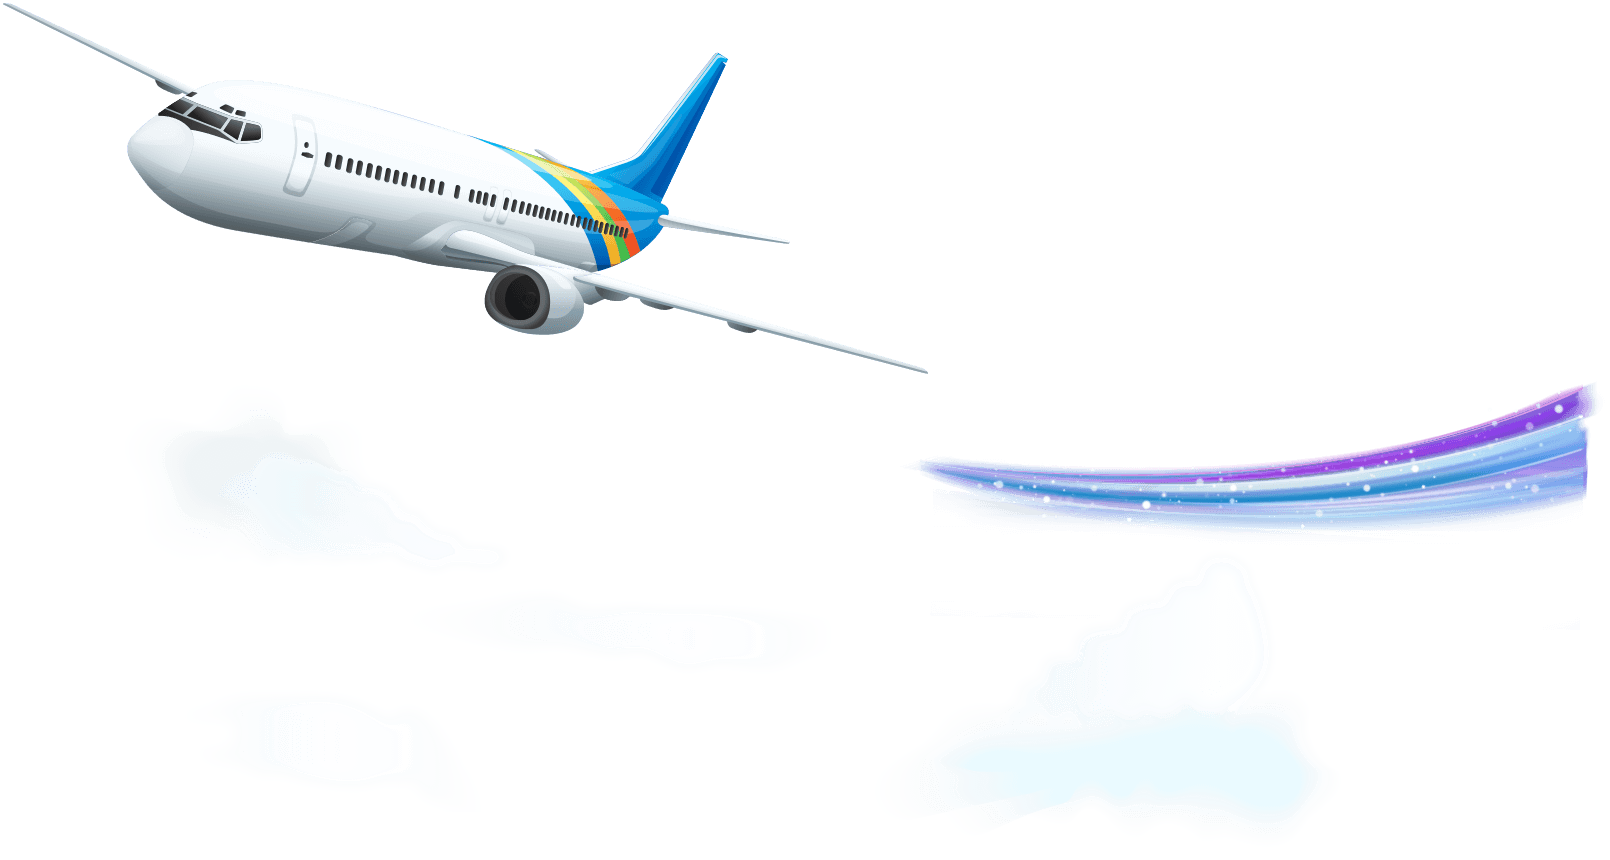
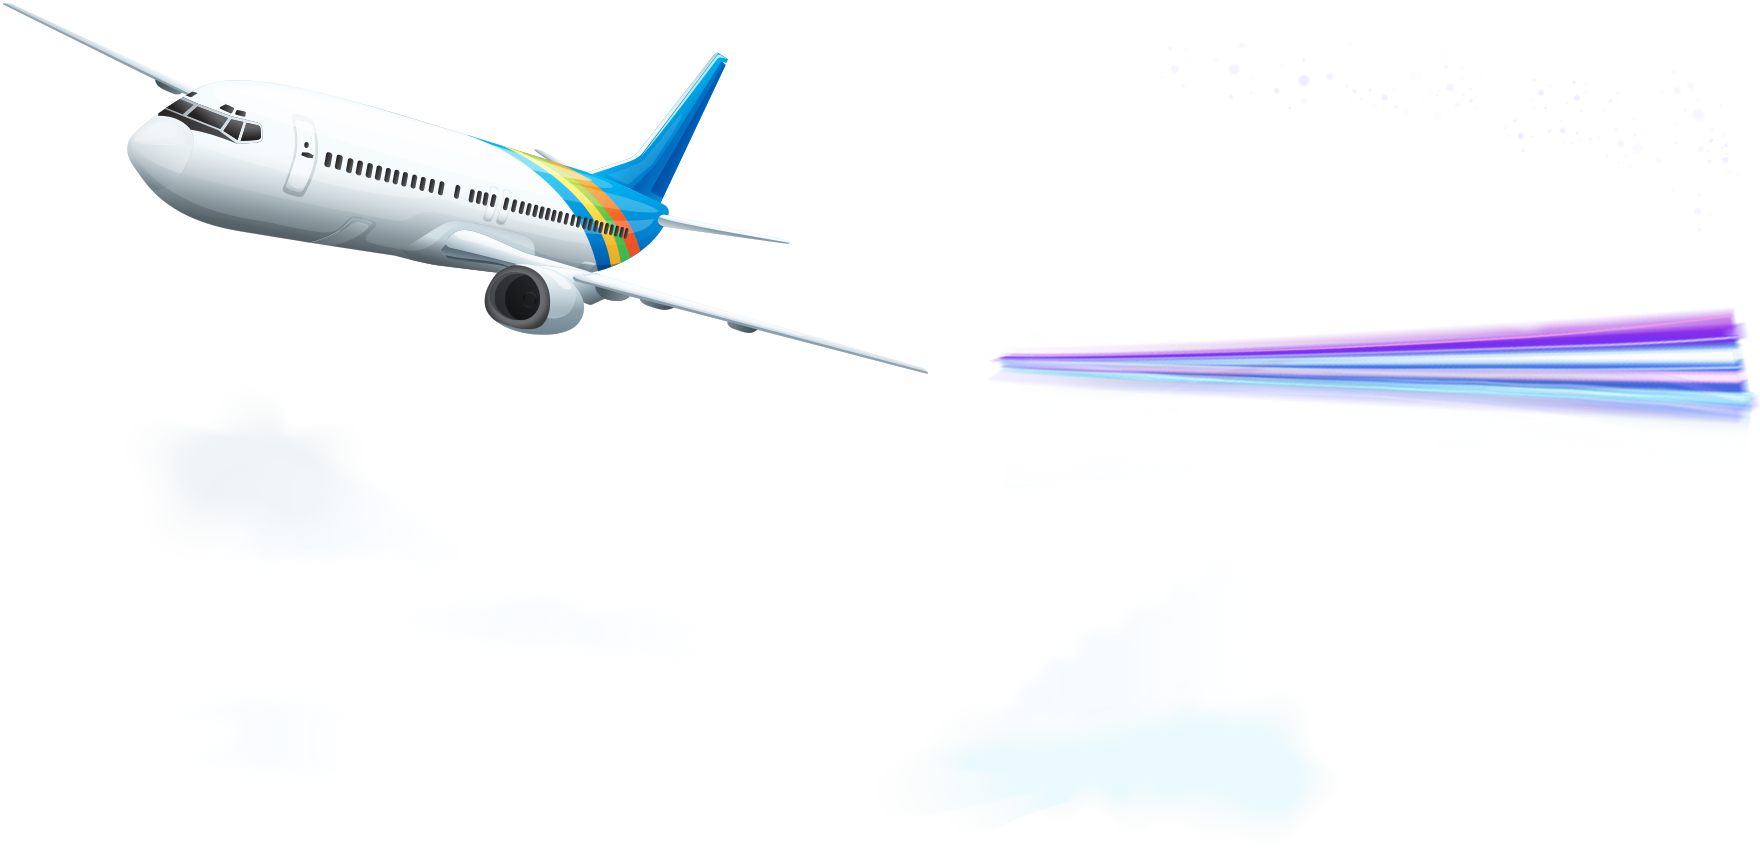
更新飞机

diff --git a/src/views/newk3/gifts/airplane.vue b/src/views/newk3/gifts/airplane.vue
@@ -26,18 +26,16 @@
 	}
 }
 .airplane{
-	width: 10.6rem;
-  height: 4.3rem;
+  width: 9.6rem;
+  height: 3.9rem;
   background-size: 18rem !important;
   background-repeat: no-repeat !important;
 }
 .light{
-  width: 34rem;
-  height: 8rem;
-  background-position: 35rem 24rem !important;
-  left: 7rem;
-  top: -1.9rem;
-  background-size: 80rem !important;
+  width: 17rem;
+  height: 5rem;
+  background-position: 17rem 13rem !important;
+  background-size: 40rem !important;
 }
 .moving.gift{
 	.airplane{
@@ -45,29 +43,33 @@
 	}
 	.light{
 		animation: light 10s linear;
+    transform-origin: 100% 50%;
+    transform: scale(0) translateY(9.1rem);
+    top:6.5rem;
+    left:2rem;
 	}
 }
 @keyframes light{
 	0%{
-		transform: translate(17rem,8rem);
+    transform: scale(0) rotate(16deg);
 		opacity: 1;
 	}
 	25%{
 		opacity: 1;
 	}
 	50%{
-		transform: translate(-10rem,-1rem);
+    transform: scale(1.3) rotate(16deg);
 		opacity: 0;
 	}
 	50.001%{
-		transform: translate(-42rem,-21rem) scaleX(-1) rotate(-33deg);
+		transform: translate(-24rem,-19.8rem) scale(0) rotate(16deg);
 		opacity: 1;
 	}
 	75%{
 		opacity: 1;
 	}
 	100%{
-		transform: translate(-24rem,-17rem) scaleX(-1) rotate(-33deg);
+		transform: translate(-19.5rem,-19.6rem) scale(-1) rotate(16deg);
 		opacity: 0;
 	}
 }
@@ -80,6 +82,9 @@
 	}
 	51%{
 		transform: translate(-12rem,-13rem) scaleX(-1) rotate(-33deg);
+	}
+	75{
+		transform: translate(2rem,-2.5rem) scaleX(-1) rotate(-33deg);
 	}
 	100%{
 		transform: translate(16rem,-6rem) scaleX(-1) rotate(-33deg);

diff --git a/src/views/newk3/main.vue b/src/views/newk3/main.vue
@@ -2,7 +2,7 @@
   <div class="newContainer">
     <gift :activegift="activegift"></gift>
     <div class="video">
-      <iframe ref="iframe" src="/static/video-k3.html"></iframe>
+      <!-- <iframe ref="iframe" src="/static/video-k3.html"></iframe> -->
       <img src="/static/img/newk3-bg.jpg" alt="" width="100%">
     </div>
     <div v-show="show == 'main'" @click="changeShow" class="mainPage">
